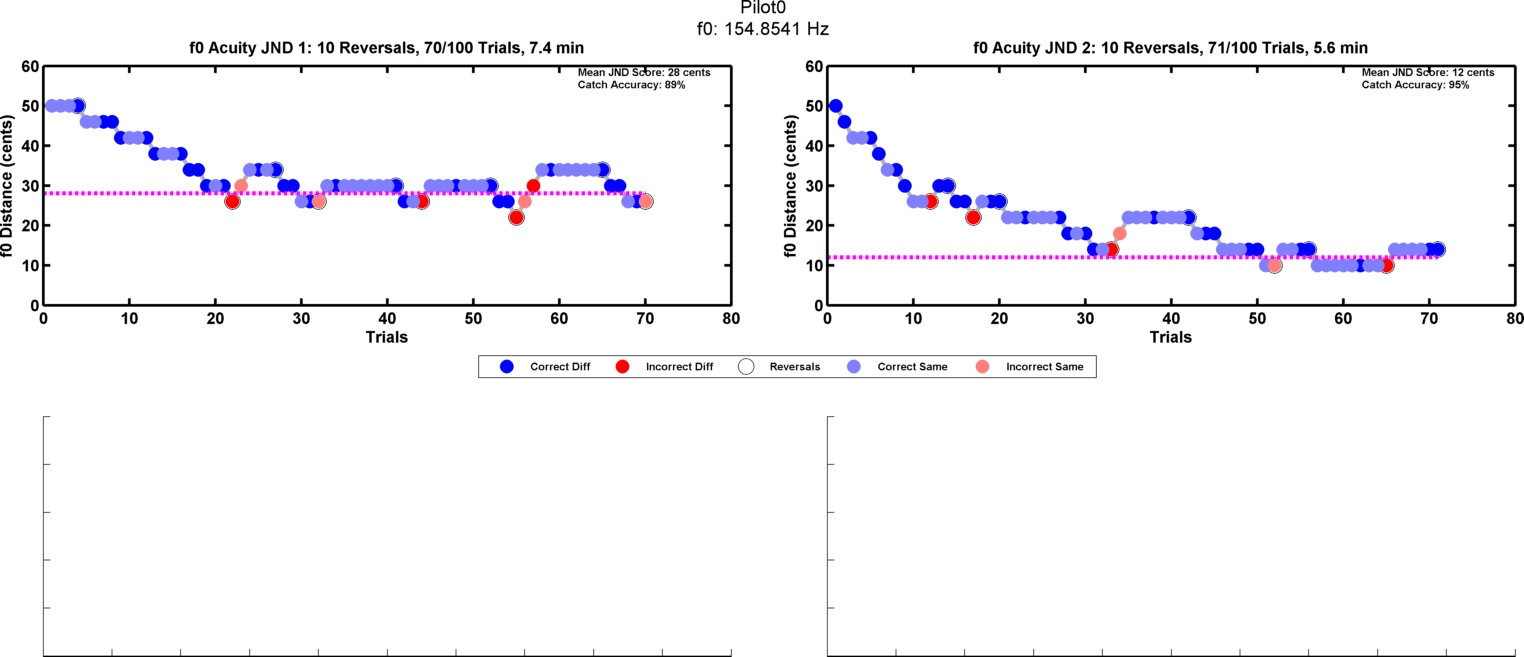
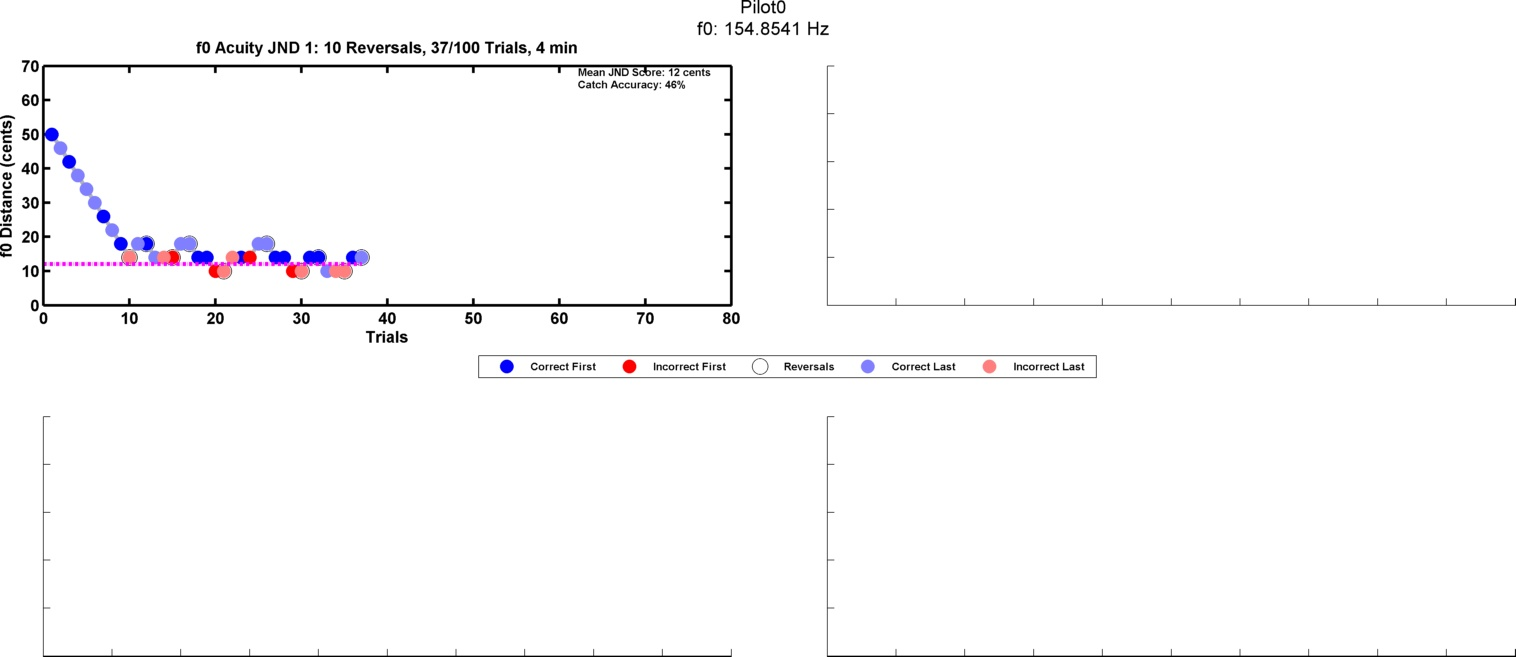
Made plotting easier
Made some things easier for plotting.

diff --git a/Analysis/dfAnalysisJND.m b/Analysis/dfAnalysisJND.m
@@ -2,6 +2,7 @@ function dfAnalysisJND()
 
 JNDa.project      = 'Dissociating-Role-of-Feedback-in-Voice-Motor-Control';
 JNDa.participant  = 'Pilot15'; %List of multiple participants.
+JNDa.runType      = 'fAC';
 runs2Analyze      = 1:4;
 numRuns           = length(runs2Analyze);
 
@@ -16,7 +17,7 @@ allRunData = [];
 allmeanJND = [];
 allCatchAcc = [];
 for ii = runs2Analyze 
-    JNDa.run         = ['fAC' num2str(ii)];
+    JNDa.run         = [JNDa.runType num2str(ii)];
     
     dirs.SavFileDir  = fullfile(dirs.RecData, JNDa.participant, JNDa.run, [JNDa.participant JNDa.run 'DRF.mat']); %Where to find data
     
@@ -25,7 +26,12 @@ for ii = runs2Analyze
     UD = setDirection(UD, JNDa, ii);
     meanJND = dfAnalyzeThresholdJND(UD, 'reversals', 4); %Cents
     accuracy = round(UD.catchAccuracy);
-    
+        
+    if strcmp(JNDa.runType, 'fAC')
+        UD.tN = {'Diff'; 'Same'}; 
+    else
+        UD.tN = {'First'; 'Last'}; 
+    end    
     allRunData = cat(1, allRunData, UD);
     allmeanJND = cat(1, allmeanJND, meanJND);
     allCatchAcc = cat(1, allCatchAcc, accuracy);

diff --git a/Analysis/drawJNDResults.m b/Analysis/drawJNDResults.m
@@ -81,7 +81,7 @@ end
 
 suptitle({JNDa.participant; ['f0: ' num2str(UD.subjf0) ' Hz']})
 
-legend(aH,{'Correct Diff','Incorrect Diff','Reversals','Correct Same','Incorrect Same'},...
+legend(aH,{['Correct ' UD.tN{1}],['Incorrect ' UD.tN{1}],'Reversals',['Correct ' UD.tN{2}],['Incorrect ' UD.tN{2}]},...
        'Orientation','Horizontal',...
        'FontSize', 8,...
        'Position', [0.51 0.48 0.01 0.01],...
